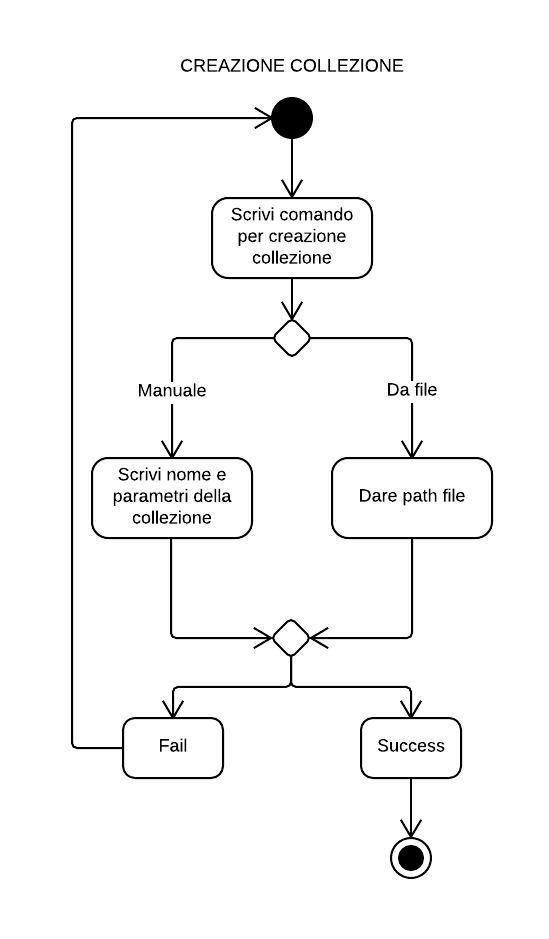
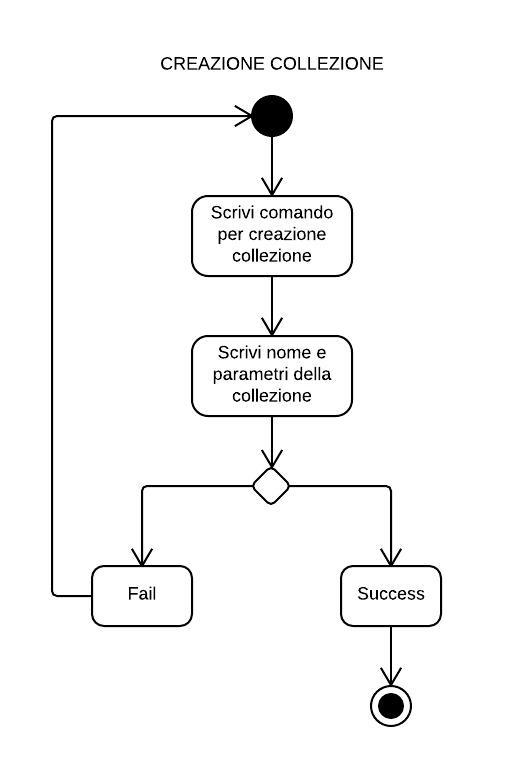
sistemato sezione diagrammi attività

Changed region(s): [[0.0936, 0.0615, 0.8733, 0.9538], [0.8733, 0.4923, 0.9045, 0.5846]]

diff --git a/RP/Esterni/SpecificaTecnica_v1.0.0.tex b/RP/Esterni/SpecificaTecnica_v1.0.0.tex
@@ -48,6 +48,10 @@
     \hline
     Versione & Autore & Ruolo & Data & Descrizione \\
     \hline
+    0.3.1 & Michael Munaro & Verificatore & 2016-03-25 & Verifica sezione 5\\
+    \hline
+    0.3.1 & Giacomo Vanin & Progettista & 2016-03-24 & Stesura sezione 5\\
+    \hline
     0.3.0 & Alberto De Agostini & Verificatore & 2016-03-22 & Verifica sezioni da 4.6 a 4.12\\
     \hline
     0.2.2 & Marco Boseggia & Progettista & 2016-03-22 & Stesura sezioni 4.10 4.11 4.12\\
@@ -1213,10 +1217,10 @@ Viene utilizzata per mandare al \gloss{controller} il comando di esportazione in
 
 \section{Diagrammi di attività}
 In questa sezione, vengono illustrati i diagrammi di attività che descrivono l'interazione dell'utente con Actorbase tramite l'utilizzo della \gloss{CLI} ad esso associata.
- stato disegnato un diagramma ad alto livello in cui sono rappresentate le operazioni possibili sul database. Esse vengono poi illustrate tramite dei sotto-diagrammi per poterne comprendere meglio il funzionamente e facilitarne la lettura.
+ É stato disegnato un diagramma ad alto livello in cui sono rappresentate le operazioni possibili sul database. Esse vengono poi illustrate tramite dei sotto-diagrammi per poterne comprendere meglio il funzionamento e facilitarne la lettura.
 
-\subsection{Visione Generale}
-L'utente, dopo aver aperto la \gloss{CLI}, ha la possibilità di \textit{loggarsi al database} oppure \textit{chiedere dell'aiuto}. Una volta autenticato, esso può \textit{operare su collezioni e/o item}, \textit{interrogare il database}, \textit{modificare la propria password}, \textit{effettuare il logout} oppure, se si tratta di un amministratore, \textit{gestire gli utenti del database}.
+\subsection{Visione generale}
+L'utente, dopo aver aperto la \gloss{CLI}, ha la possibilità di loggarsi al database oppure chiedere dell'aiuto. Una volta autenticato, esso può operare su collezioni e/o item, interrogare il database, modificare la propria password, effettuare il logout oppure, se si tratta di un amministratore, gestire gli utenti del database.
 
 \begin{figure}[H]
 	\begin{center}
@@ -1225,10 +1229,11 @@ L'utente, dopo aver aperto la \gloss{CLI}, ha la possibilità di \textit{loggars
 	\end{center}
 \end{figure}
 
-\subsection{operazioni su collezioni e/o item}
-Per quanto riguarda le operazioni che l'utente può fare su collezioni e item, abbiamo: \textit{creazione e cancellazione di una o più collezioni}, \textit{visualizzare le collezioni presenti nel database}, \textit{rinominare una collezione}, \textit{inserire e rimuovere un item} e \textit{aggiungere o rimuovere un collaboratore da una collezione}.
-Come si può vedere dalle immagini, le operazioni sono molto lineari e di semplice lettura. Per ogni tipo di operazione è sempre possibile cadere in errore (nel momento in cui si sbaglia la sintassi del comando) e quindi si dovrà riscrivere da zero l'istruzione desiderata.
-Inoltre si può notare che l'inserimento di un item o la creazione di una collezione potranno esser fatti manualmente (i.e scrivendo da riga di comando tutto il necessario) oppure da file (i.e tramite file JSON).
+\subsection{Operazioni su collezioni e/o item}
+\subsubsection{Creazione collezione}
+Questo tipo di operazione permette di inserire una collezione all'interno del database.
+Come si vede dal grafico che segue, l'utente dovrà inserire il comando per la creazione della collezione, il nome della collezione stessa e i suoi parametri.
+Una volta premuto il tasto invio, l'operazione andrà a buon termine se l'utente ha scritto correttamente il comando altrimenti verrà visualizzato un messaggio di errore.
 
 \begin{figure}[H]
 	\begin{center}
@@ -1237,12 +1242,22 @@ Inoltre si può notare che l'inserimento di un item o la creazione di una collez
 	\end{center}
 \end{figure}
 
+\subsubsection{Cancellazione collezione}
+Questo tipo di operazione permette di cancellare una collezione dal database.
+Come si vede dal grafico che segue, l'utente dovrà inserire il comando per la cancellazione di una collezione e il nome della collezione stessa.
+Una volta premuto il tasto invio, l'operazione andrà a buon termine se l'utente ha scritto correttamente il comando altrimenti verrà visualizzato un messaggio di errore.
+
 \begin{figure}[H]
 	\begin{center}
 		\includegraphics[width=0.3\textwidth, keepaspectratio]{img/diagrammiAttivita/cancCollezione.jpeg}
 		\caption*{Diagrammi attività - Cancellazione Collezione}
 	\end{center}
 \end{figure}
+
+\subsubsection{Visualizza collezioni}
+Questo tipo di operazione permette di visualizzare le collezioni presenti all'interno dal database.
+Come si vede dal grafico che segue, l'utente dovrà inserire il comando per la visualizzazione delle collezioni.
+Una volta premuto il tasto invio, l'operazione andrà a buon termine (ricevendo la lista delle collezioni) se l'utente ha scritto correttamente il comando altrimenti verrà visualizzato un messaggio di errore.
 
 \begin{figure}[H]
 	\begin{center}
@@ -1251,12 +1266,22 @@ Inoltre si può notare che l'inserimento di un item o la creazione di una collez
 	\end{center}
 \end{figure}
 
+\subsubsection{Modifica nome collezione}
+Questo tipo di operazione permette di modificare il nome di una collezione presente nel database.
+Come si vede dal grafico che segue, l'utente dovrà inserire il comando per la rinominazione della collezione, il nome della collezione stessa e il nuovo nome per essa.
+Una volta premuto il tasto invio, l'operazione andrà a buon termine se l'utente ha scritto correttamente il comando altrimenti verrà visualizzato un messaggio di errore.
+
 \begin{figure}[H]
 	\begin{center}
 		\includegraphics[width=0.3\textwidth, keepaspectratio]{img/diagrammiAttivita/modNomeCollezione.jpeg}
 		\caption*{Diagrammi attività - Modifica nome collezione}
 	\end{center}
 \end{figure}
+
+\subsubsection{Inserimento item}
+Questo tipo di operazione permette di inserire un item all'interno di una collezione del database.
+Come si vede dal grafico che segue, l'utente dovrà inserire il comando per l'inserimento item, il valore e parametri dell'item stesso e il nome della collezione dove inserire l'item.
+Una volta premuto il tasto invio, l'operazione andrà a buon termine (ricevendo la lista delle collezioni) se l'utente ha scritto correttamente il comando altrimenti verrà visualizzato un messaggio di errore.
 
 \begin{figure}[H]
 	\begin{center}
@@ -1265,12 +1290,22 @@ Inoltre si può notare che l'inserimento di un item o la creazione di una collez
 	\end{center}
 \end{figure}
 
+\subsubsection{Rimozione item}
+Questo tipo di operazione permette di rimuovere un item dall'interno di una collezione del database.
+Come si vede dal grafico che segue, l'utente dovrà inserire il comando per l'eliminazone di un item, il nome della collezione da dove rimuovere l'item e il nome dell'item stesso.
+Una volta premuto il tasto invio, l'operazione andrà a buon termine (ricevendo la lista delle collezioni) se l'utente ha scritto correttamente il comando altrimenti verrà visualizzato un messaggio di errore.
+
 \begin{figure}[H]
 	\begin{center}
 		\includegraphics[width=0.3\textwidth, keepaspectratio]{img/diagrammiAttivita/rimozioneItem.jpeg}
 		\caption*{Diagrammi attività - Rimozione item}
 	\end{center}
 \end{figure}
+
+\subsubsection{Aggiunta collaboratore}
+Questo tipo di operazione permette di aggiungere un collaboratore ad una collezione presente nel database.
+Come si vede dal grafico che segue, l'utente dovrà inserire il comando per l'aggiunta di un collaboratore ad una collezione, lo username del collaboratore e il nome della collezione alla quale aggiungerlo.
+Una volta premuto il tasto invio, l'operazione andrà a buon termine se l'utente ha scritto correttamente il comando altrimenti verrà visualizzato un messaggio di errore.
 
 \begin{figure}[H]
 	\begin{center}
@@ -1279,6 +1314,11 @@ Inoltre si può notare che l'inserimento di un item o la creazione di una collez
 	\end{center}
 \end{figure}
 
+\subsubsection{Rimozione collaboratore}
+Questo tipo di operazione permette di rimuovere un collaboratore da una collezione presente nel database.
+Come si vede dal grafico che segue, l'utente dovrà inserire il comando per la rimozione di un collaboratore da una collezione, lo username del collaboratore e il nome della collezione dalla quale rimuoverlo.
+Una volta premuto il tasto invio, l'operazione andrà a buon termine se l'utente ha scritto correttamente il comando altrimenti verrà visualizzato un messaggio di errore.
+
 \begin{figure}[H]
 	\begin{center}
 		\includegraphics[width=0.3\textwidth, keepaspectratio]{img/diagrammiAttivita/rimozioneCollaboratore.jpeg}
@@ -1286,7 +1326,22 @@ Inoltre si può notare che l'inserimento di un item o la creazione di una collez
 	\end{center}
 \end{figure}
 
-\subsection{interrogazione del database}
+\subsubsection{Import}
+Questo tipo di operazione permette di importare nel database collezioni o item tramite file \gloss{JSON}.
+Come si vede dal grafico che segue, l'utente dovrà inserire il comando per l'importazione e il path che porta al file desiderato.
+Una volta premuto il tasto invio, l'operazione andrà a buon termine se l'utente ha scritto correttamente il comando altrimenti verrà visualizzato un messaggio di errore.
+
+\begin{figure}[H]
+	\begin{center}
+		\includegraphics[width=0.3\textwidth, keepaspectratio]{img/diagrammiAttivita/import.jpeg}
+		\caption*{Diagrammi attività - Import}
+	\end{center}
+\end{figure}
+
+\subsection{Interrogazione del database}
+Questo tipo di operazione permette di interrogare il database tramite delle query.
+Come si vede dal grafico che segue, l'utente dovrà inserire il comando per l'interrogazione del database e i parametri per la ricerca.
+Una volta premuto il tasto invio, l'operazione andrà a buon termine se l'utente ha scritto correttamente il comando, ricevendo il risultato della query, altrimenti verrà visualizzato un messaggio di errore.
 
 \begin{figure}[H]
 	\begin{center}
@@ -1295,7 +1350,10 @@ Inoltre si può notare che l'inserimento di un item o la creazione di una collez
 	\end{center}
 \end{figure}
 
-\subsection{modifica password}
+\subsection{Modifica password}
+Questo tipo di operazione permette di modificare la propria password.
+Come si vede dal grafico che segue, l'utente dovrà inserire il comando per la modifica della password, la vecchia password, la nuova password e confermare quest'ultima.
+Una volta premuto il tasto invio, l'operazione andrà a buon termine se l'utente ha scritto correttamente il comando altrimenti verrà visualizzato un messaggio di errore.
 
 \begin{figure}[H]
 	\begin{center}
@@ -1304,8 +1362,11 @@ Inoltre si può notare che l'inserimento di un item o la creazione di una collez
 	\end{center}
 \end{figure}
 
-\subsection{gestione utenti}
-La gestione utenti, possibile solo ad un utente amministratore, prevede la possibilità di \textit{aggiungere o rimuovere un utente dal database} e la possibilità di \textit{resettare la password di un utente}.
+\subsection{Gestione utenti}
+La gestione utenti, possibile solo ad un utente amministratore, prevede la possibilità di aggiungere o rimuovere un utente dal database e la possibilità di resettare la password di un utente.
+Per aggiungere o rimuovere un utente, l'amministratore dovrà inserire il rispettivo comando, lo username dell'utente da aggiungere/rimuovere dal database e una conferma.
+Per resettare la password di un utente, l'amministratore dovrà scrivere il comando per il reset della password, lo username dell'utente interessato e una conferma.
+Una volta premuto il tasto invio, le operazione andranno a buon termine se l'utente ha scritto correttamente il comando altrimenti verrà visualizzato un messaggio di errore.
 
 \begin{figure}[H]
 	\begin{center}
